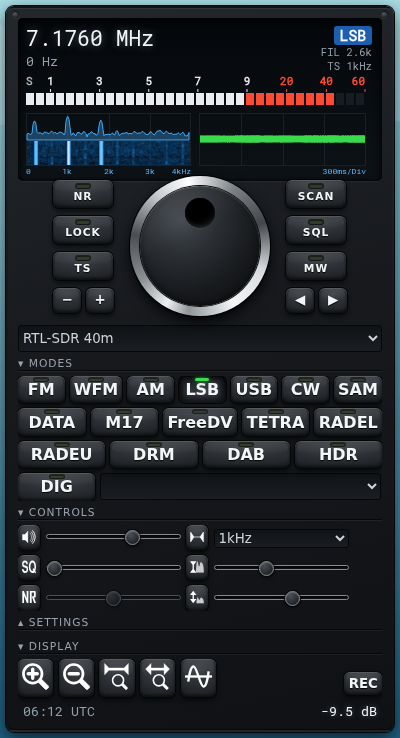
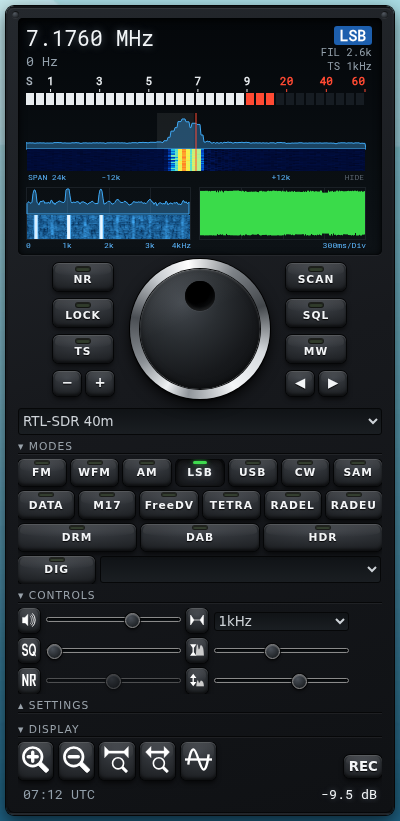
Release 0.4: changelog, plain-language docs, new screenshot.

Changed region(s): [[0.0, 0.0, 0.96, 0.9973], [0.78, 0.9038, 0.96, 0.9973]]

diff --git a/receiver/rig_skin/rig_skin.js b/receiver/rig_skin/rig_skin.js
@@ -7,7 +7,7 @@
  * knob step follows the tuning step selector.
  */
 
-Plugins.rig_skin._version = 0.3;
+Plugins.rig_skin._version = 0.4;
 
 Plugins.rig_skin.init = function () {
     // Register the theme in the selector

diff --git a/README.md b/README.md
@@ -1,45 +1,58 @@
 # OpenWebRX+ Rig Skin Plugin
 
-A receiver plugin for [OpenWebRX+](https://fms.komkon.org/OWRX/) that adds a
-"Rig" theme: a dark transceiver front panel with a working VFO dial and a
-segmented S-meter.
+This plugin makes the OpenWebRX+ receiver panel look and work like a real
+rig: dark front panel, a VFO dial you can actually turn, an LCD with proper
+readouts and meters. I wrote it for my own receiver because I never got
+used to tuning with sliders.
+
+It is a plain receiver plugin. No fork, nothing patched. It adds a "Rig"
+entry to the normal theme dropdown, so you can switch between this and the
+stock look any time.
 
 ![screenshot](docs/screenshot.png)
 
-## Features
+## What it does
 
-- Dark front-panel theme, selectable from the standard theme dropdown
-  (Settings section of the receiver panel). Switching themes turns the whole
-  skin on and off, no reload needed.
-- VFO dial with chrome bezel and finger cup. Drag around its center to tune
-  (one tuning step per 15 degrees), scroll for single steps, or flick it and
-  it keeps spinning with flywheel inertia.
-- Rig-style LCD: white frequency digits, the mode on a blue badge, and live
-  FIL (filter width) and TS (tuning step) readouts.
-- Segmented S-meter with S1..S9 plus red 20/40/60 dB scale, meter ballistics
-  and a peak-hold segment, spanning the full LCD width.
-- Audio scope like a modern transceiver screen: audio spectrum with a
-  scrolling waterfall on the left, roll-mode waveform (300ms/Div) on the
-  right, kHz axis that follows the demodulator passband. Click the S-meter
-  to show or hide it.
-- Front panel keys around the dial, each with an LED window: NR, LOCK
-  (blinking LED), TS (opens the tuning step picker), SCAN (bookmark
-  scanner), SQL (squelch on/off with automatic level), MW (write a
-  bookmark). The active mode key lights a green LED too.
-- Waterfall zoom (- / +) and paging (left / right) key pairs beside the
-  dial, made for touch devices. Paging walks the zoomed view through the
-  capture window and, at the edge or when unzoomed, moves the receiver
-  window itself if the server allows center frequency changes.
-- "Rig" waterfall color palette in the waterfall theme selector, a standard
-  jet-style ramp tuned for weak-signal visibility.
-- The receiver panel widens to 364 px while the theme is active; the dial
-  shrinks automatically on short screens.
+The dial tunes. Drag it, flick it and it keeps spinning, or use the mouse
+wheel for single steps. It follows the tuning step. Works with a finger on
+phones and tablets too.
+
+The LCD shows the frequency in white digits, the mode on a blue badge, and
+FIL / TS readouts so you always know the filter width and what one dial
+click does. The S-meter is segmented with peak hold.
+
+Under the meter sit two scopes:
+
+- A band scope centered on the tuned frequency. Click it to tune, scroll
+  it to step, SPAN switches between 50/24/10 kHz, HIDE collapses it. It
+  uses the same colors and levels as the main waterfall and averages the
+  trace, so weak signals are easy to spot and click.
+- An audio scope: audio spectrum with a small waterfall on the left,
+  scrolling waveform on the right. Good for tuning SSB by eye. Click the
+  S-meter to show or hide it.
+
+Keys around the dial, each with a status LED:
+
+- NR: noise reduction
+- LOCK: freezes the dial (blinking LED), saves you on a wall mounted tablet
+- TS: tuning step picker, including an Auto entry that follows the mode
+- SCAN: runs the bookmark scanner
+- SQL: squelch on/off, level set automatically
+- MW: writes a bookmark at the current frequency
+- small - / + and left / right pairs for waterfall zoom and paging, so you
+  never need to pinch the waterfall on a phone. Paging can also move the
+  receiver window itself if the server allows center frequency changes.
+
+The active mode key lights a green LED, like the rest. There is also a
+"Rig" waterfall palette in the waterfall theme selector, a jet style ramp
+that keeps weak signals visible. The panel is a bit wider than stock
+(364 px) and the dial shrinks on short screens.
 
 ## Install
 
 ### Remote (no files on the server)
 
-Add this line to your `plugins/receiver/init.js`:
+One line in your `plugins/receiver/init.js`:
 
 ```js
 Plugins.load('https://aganet.github.io/openwebrxplus-rig-skin/receiver/rig_skin/rig_skin.js');
@@ -63,7 +76,7 @@ On a Debian package install the plugins folder is
 Keep the plugins next to your `docker-compose.yml` and bind-mount them into
 the container.
 
-**Step 1.** Go to the folder that holds your `docker-compose.yml` and create
+Step 1: go to the folder that holds your `docker-compose.yml` and create
 the plugins tree with the plugin in it:
 
 ```sh
@@ -87,13 +100,13 @@ plugins/
       rig_skin.css
 ```
 
-**Step 2.** Mount it into the openwebrx service in `docker-compose.yml`.
-Pick one of the two options (relative paths work in compose):
+Step 2: mount it into the openwebrx service in `docker-compose.yml`.
+Relative paths work in compose. Two options:
 
-**Option A: mount the whole plugins folder.** Simple, and the layout the
-official docs use. Note that it hides the plugins bundled inside the image
-(`utils`, the examples) and anything previously copied into the container,
-so use it when this folder is your only source of plugins:
+Option A, mount the whole plugins folder. Simple, and the layout the
+official docs use. It hides the plugins bundled inside the image (`utils`,
+the examples) and anything previously copied into the container, so use it
+when this folder is your only source of plugins:
 
 ```yaml
 services:
@@ -102,10 +115,9 @@ services:
       - ./plugins:/usr/lib/python3/dist-packages/htdocs/plugins
 ```
 
-**Option B: mount only the rig_skin folder plus init.js.** Nothing else in
-the container is touched, so plugins that already exist inside the image or
-container keep working. Use this on an installation that already has
-plugins:
+Option B, mount only the rig_skin folder plus init.js. Nothing else in the
+container is touched, so plugins that already exist inside the image or
+container keep working:
 
 ```yaml
 services:
@@ -116,25 +128,24 @@ services:
 ```
 
 If your installation already has its own `init.js` loading other plugins,
-do not mount a new one over it: drop the second line and instead add
-`Plugins.load('rig_skin');` to the existing file.
+do not mount a new one over it: drop the second line and add
+`Plugins.load('rig_skin');` to the existing file instead.
 
-**Step 3.** Recreate the container and refresh the browser:
+Step 3: recreate the container and refresh the browser:
 
 ```sh
 docker compose up -d
 ```
 
-Then select "Rig" in the theme dropdown (Settings section of the receiver
-panel) and hard-refresh the browser once (Ctrl+Shift+R) if the theme does
-not show up.
+Then pick "Rig" in the theme dropdown (Settings section of the receiver
+panel). Hard-refresh once (Ctrl+Shift+R) if it does not show up.
 
-If you use `docker run` instead of compose, the same mounts work with
-`-v "$PWD/plugins:..."` style arguments.
+With plain `docker run` the same mounts work as `-v "$PWD/plugins:..."`
+arguments.
 
-Tip: after editing `plugins/receiver/init.js` on the host, restart the
-container if the change does not show up; some editors replace the file
-when saving, which breaks a single-file bind mount until a restart.
+Tip: if an edit to `plugins/receiver/init.js` does not show up, restart the
+container. Some editors replace the file on save, which breaks a
+single-file bind mount until a restart.
 
 ## License
 

diff --git a/CHANGELOG.md b/CHANGELOG.md
@@ -1,5 +1,23 @@
 # Changelog
 
+## 0.4 (2026-07-19)
+
+- Band scope in the LCD: a narrow spectrum and waterfall centered on the
+  tuned frequency, like a rig's center-mode scope. Click to tune (about
+  70 Hz per pixel at the 24 kHz span), scroll for single steps, click
+  SPAN to cycle 50/24/10 kHz, click HIDE to collapse it to a slim bar.
+  It shares the main waterfall's palette and level range and averages
+  its trace, so weak signals stand out and are easy to click.
+- AUTO tuning step: the TS picker gains an Auto entry that follows the
+  mode (SSB/CW 100 Hz, AM 5 kHz or 9 kHz below 2 MHz, NFM and digital
+  voice 12.5 kHz, WFM 50 kHz). Any manual step choice disengages it.
+- Audio scope fixes: the analyser taps the audio before the volume gain
+  and the waveform display auto-scales, so speech is clearly visible at
+  any volume setting.
+- The saved rig waterfall theme is re-applied reliably after page load.
+- Mode key legends match the dial keys in size; spacing between the LCD
+  and the dial row.
+
 ## 0.3 (2026-07-17)
 
 - White LCD palette with the mode shown on a blue badge, following the
@@ -21,7 +39,7 @@
 
 ## 0.2 (2026-07-16)
 
-- Audio scope inside the LCD, styled like a modern transceiver screen:
+- Audio scope inside the LCD, styled like a modern rig screen:
   audio spectrum with a scrolling waterfall on the left, oscilloscope
   waveform with graticule on the right, framed plots with kHz axis labels.
   Toggled by clicking the S-meter, visible by default.

diff --git a/receiver/rig_skin/README.md b/receiver/rig_skin/README.md
@@ -1,11 +1,10 @@
 # rig_skin
 
-Dark transceiver front-panel theme for OpenWebRX+. Adds a "Rig" entry to the
-theme selector with a white LCD frequency display (mode badge, FIL and TS
-readouts), a segmented S-meter with peak hold, an audio scope with waterfall
-and roll-mode waveform, LED keys around a working VFO dial (drag, flick or
-scroll to tune), waterfall zoom and paging keys, and a jet-style waterfall
-palette.
+Makes the OpenWebRX+ receiver panel look and work like a real rig: a VFO
+dial you can turn (drag, flick or scroll), an LCD with mode / FIL / TS
+readouts, a segmented S-meter with peak hold, a click-to-tune band scope,
+an audio scope, and keys with status LEDs for NR, LOCK, tuning step (with
+an Auto mode), scanner, squelch, bookmarks, waterfall zoom and paging.
 
 ![screenshot](../../docs/screenshot.png)
 
@@ -18,5 +17,5 @@ Plugins.load('rig_skin');
 Plugins.load('https://aganet.github.io/openwebrxplus-rig-skin/receiver/rig_skin/rig_skin.js');
 ```
 
-No dependencies. The skin only applies while the "Rig" theme is selected, so
-it is safe to keep loaded at all times.
+No dependencies. The skin only applies while the "Rig" theme is selected,
+so it is safe to keep loaded at all times.

diff --git a/docs/blog-post.md b/docs/blog-post.md
@@ -21,7 +21,7 @@ Since I am the main user of my own receiver, I decided it should feel more
 like my radio.
 
 So I built **rig_skin**: an OpenWebRX+ plugin that transforms the receiver
-panel into a dark, transceiver-style front panel.
+panel into a dark, rig-style front panel.
 
 ![rig_skin in action](https://aganet.github.io/openwebrxplus-rig-skin/docs/screenshot.png)
 
@@ -35,7 +35,7 @@ panel into a dark, transceiver-style front panel.
   (TS), so the screen always tells you what one click of the dial will do.
 * **A segmented S-meter with peak hold**, spanning the full width of the
   display, with proper meter ballistics.
-* **An audio scope, like a modern transceiver screen.** The audio spectrum
+* **An audio scope, like a modern rig screen.** The audio spectrum
   with a scrolling waterfall on the left, an oscilloscope waveform on the
   right, complete with graticules and a labeled kHz axis. It is a genuine
   tuning aid: on SSB you can see the voice energy sit in the passband, on CW